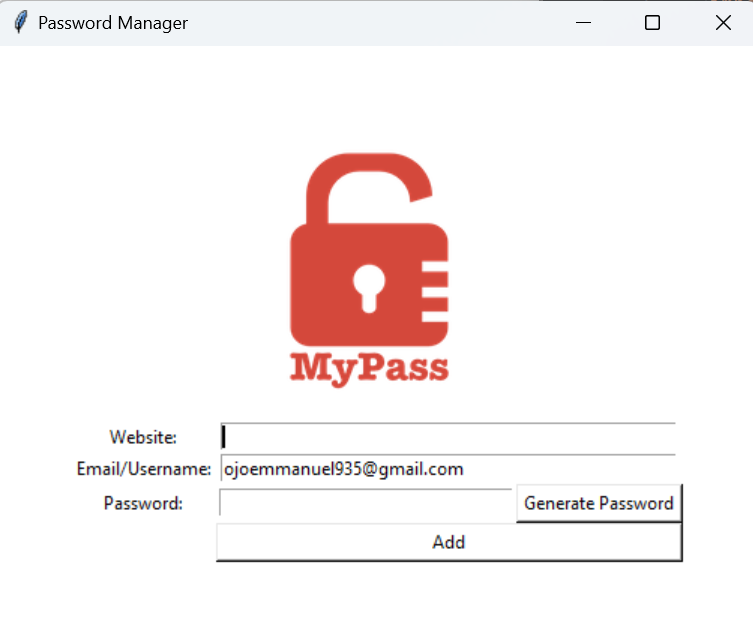
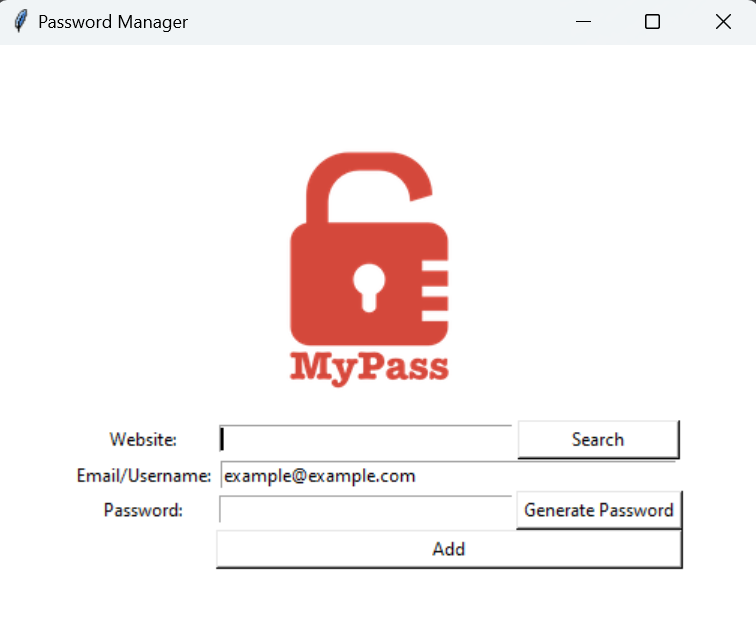
feat: add search functionality and migrate to JSON storage
- Passwords are now saved in a structured JSON format

- Added ability to search for saved website credentials

- Automatically detects and updates existing records

- Improved error handling for missing data files

- Enhanced UI flow with confirmation dialogs

diff --git a/main.py b/main.py
@@ -2,6 +2,8 @@ from tkinter import *
 from tkinter import messagebox
 from random import randint, choice, shuffle
 import pyperclip
+import json
+
 
 letters = ['a', 'b', 'c', 'd', 'e', 'f', 'g', 'h', 'i', 'j', 'k', 'l', 'm', 'n', 'o', 'p', 'q', 'r', 's', 't',
            'u', 'v', 'w', 'x', 'y', 'z', 'A', 'B', 'C', 'D', 'E', 'F', 'G', 'H', 'I', 'J', 'K', 'L', 'M', 'N', 'O',
@@ -12,6 +14,7 @@ symbols = ['!', '#', '$', '%', '&', '(', ')', '*', '+']
 
 # Constants
 WHITE = "#fff"
+PASSWORD_FILE = "password_data.json"
 
 
 # ---------------------------- PASSWORD GENERATOR ------------------------------- #
@@ -30,27 +33,85 @@ def generate_password():
     pyperclip.copy(text=generated_password)
 
 
+# ---------------------------- JSON FILE UTILITIES ------------------------------- #
+def load_password_data():
+    try:
+        with open(PASSWORD_FILE, mode="r") as file:
+            return json.load(file)
+    except FileNotFoundError:
+        return {}
+
+def save_password_data(data):
+    with open(PASSWORD_FILE, mode="w") as file:
+        json.dump(data, file, indent=4)
+
+
+# ---------------------------- DIALOG HELPER ------------------------------- #
+def confirm_action(website, email, password, is_update=False):
+    if is_update:
+        msg = f"Details for '{website}' already exist.\n\nUpdate with:\nEmail: {email}\nPassword: {password}"
+        return messagebox.askokcancel(title="Update Confirmation", message=msg)
+    else:
+        msg = f"Please confirm the details:\n\nWebsite: {website}\nEmail: {email}\nPassword: {password}"
+        return messagebox.askokcancel(title="Confirm Details", message=msg)
+
+
 # ---------------------------- SAVE PASSWORD ------------------------------- #
 def save_password():
-    new_website = website_entry.get()
-    new_email = email_entry.get()
-    new_password = password_entry.get()
+    new_website = website_entry.get().strip()
+    new_email = email_entry.get().strip()
+    new_password = password_entry.get().strip()
 
     if not new_website or not new_email or not new_password:
         messagebox.showerror(title="Oops", message="Please fill in all the details!")
         return
 
-    is_ok = messagebox.askokcancel(title=new_website, message=f"Please confirm your details before you proceed to "
-                                                              f"save!\n\nEmail: {new_email}\nPassword: {new_password}")
+    new_data = {
+        new_website.lower(): {
+            "email": new_email,
+            "password": new_password
+        }
+    }
 
-    if is_ok:
-        with open ("password.txt", mode="a") as password_file:
-            password_file.write(f"{new_website} | {new_email} | {new_password}\n")
+    password_data = load_password_data()
+    saved_websites = [website.lower() for website in password_data]
+    is_update = new_website.lower() in saved_websites
 
-        website_entry.delete(0, END)
-        email_entry.delete(0, END)
-        email_entry.insert(0, string="ojoemmanuel935@gmail.com")
-        password_entry.delete(0, END)
+    if not confirm_action(new_website, new_email, new_password, is_update=is_update):
+        return
+
+    password_data.update(new_data)
+    save_password_data(password_data)
+
+    website_entry.delete(0, END)
+    email_entry.delete(0, END)
+    email_entry.insert(0, string="example@example.com")
+    password_entry.delete(0, END)
+
+
+# ---------------------------- SEARCH PASSWORD ------------------------------- #
+def search_password():
+    website_name = website_entry.get().strip().lower()
+
+    if not website_name:
+        messagebox.showerror(title="Oops", message="Please enter a website to search.")
+        return
+
+    password_data = load_password_data()
+    saved_websites = [website.lower() for website in password_data]
+
+    if len(saved_websites) == 0:
+        messagebox.showerror(message="No passwords saved yet")
+    elif website_name not in saved_websites:
+        messagebox.showinfo(title="Oops", message=f'"{website_name.upper()}" password data not found')
+        return
+    else:
+        for (key, value) in password_data.items():
+            if key.lower() == website_name:
+                website_email = value["email"]
+                website_password = value["password"]
+                messagebox.showinfo(title=website_name, message=f"Email: {website_email}\nPassword: "
+                                                                f"{website_password}")
 
 
 # ---------------------------- UI SETUP ------------------------------- #
@@ -70,14 +131,20 @@ canvas.grid(column=1, row=0)
 website_label = Label(text="Website:", bg=WHITE)
 website_label.grid(column=0, row=1)
 
-website_entry = Entry(width=50)
+website_entry = Entry(width=32)
 website_entry.focus()
-website_entry.grid(column=1, row=1, columnspan=2)
+website_entry.grid(column=1, row=1)
+
+# Search Button
+search_button = Button(text="Search", bg=WHITE, width=14, command=search_password)
+search_button.grid(column=2, row=1)
+
+# Email input
 email_label = Label(text="Email/Username:", bg=WHITE)
 email_label.grid(column=0, row=2)
 
 email_entry = Entry(width=50)
-email_entry.insert(0, string="ojoemmanuel935@gmail.com")
+email_entry.insert(0, string="example@example.com")
 email_entry.grid(column=1, row=2, columnspan=2)
 
 # Password input

diff --git a/README.md b/README.md
@@ -16,9 +16,12 @@ It allows users to:
 
 - Random password generator with mix of letters, numbers, and symbols
 - User-friendly interface using Tkinter
-- Local data storage in `password.txt`
+- Local data storage in `password_data.json`
 - Automatically copies generated password to clipboard
+- Search saved credentials by website
+- Detect and update existing website data
 - Pre-fills commonly used email address
+- Helpful error messages and confirmation prompts
 
 ---
 
